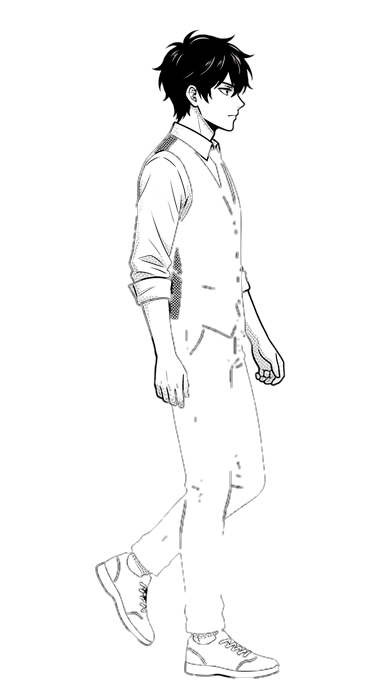
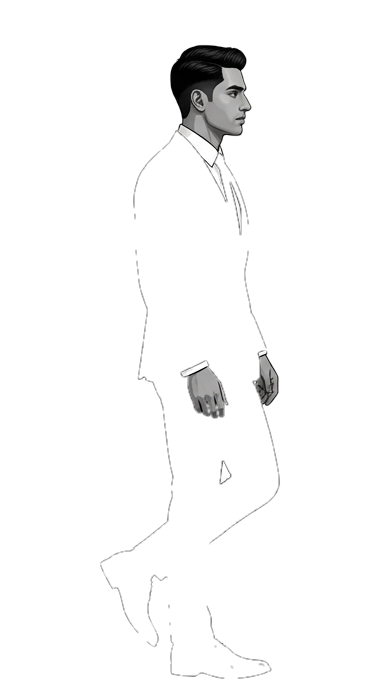
refactor: remove anime styling and transitions, upgrade to realistic professional character

diff --git a/src/App.tsx b/src/App.tsx
@@ -19,14 +19,10 @@ import { Footer } from './components/Footer';
 import { ProjectModal } from './components/ProjectModal';
 import { ImageLightbox } from './components/ImageLightbox';
 import { QuickCustomizeModal } from './components/QuickCustomizeModal';
-import { AnimeFightTransition } from './components/AnimeFightTransition';
 import { AUDIO_TRACKS } from './data/audioTracks';
 
 const STORAGE_KEY_PERSONAL = 'salim_portfolio_personal_v2';
 const STORAGE_KEY_SEMESTERS = 'salim_portfolio_semesters_v2';
-
-// Sections allowed to trigger the Anime Fight Scene transition (Home, About, Contact only)
-const FIGHTING_TRANSITION_SECTIONS = new Set(['home', 'about', 'contact']);
 
 export function App() {
   // Personal & Semester State (supports live browser customization + localStorage persistence)
@@ -70,11 +66,7 @@ export function App() {
   } | null>(null);
   const [customizeOpen, setCustomizeOpen] = useState<boolean>(false);
 
-  // 🎬 Full-Screen 3-Second Anime Fight Scene Transition
-  const [transitionTarget, setTransitionTarget] = useState<string | null>(null);
-  const [isTransitioning, setIsTransitioning] = useState<boolean>(false);
-
-  // Background Audio Player (3 user-selected anime/chill tracks with loop, pause, and track switching)
+  // Background Audio Player (3 chill tracks with loop, pause, and track switching)
   const [isPlayingMusic, setIsPlayingMusic] = useState<boolean>(false);
   const [currentTrackIndex, setCurrentTrackIndex] = useState<number>(0);
   const audioRef = useRef<HTMLAudioElement | null>(null);
@@ -209,50 +201,16 @@ export function App() {
     }
   };
 
-  // Navigation: Full-Screen Anime Fight Scene Transition ONLY for Home, About, and Contact
+  // Navigation: Direct smooth scrolling to target sections
   const handleNavigate = useCallback(
     (targetId: string) => {
-      // Prevent repeated clicks from overlapping or interrupting the animation
-      if (isTransitioning) return;
-
       const el = document.getElementById(targetId);
-
-      // If user enabled reducedMotion or target is NOT in ['home', 'about', 'contact'], scroll directly and smoothly
-      if (reducedMotion || !FIGHTING_TRANSITION_SECTIONS.has(targetId)) {
-        if (el) {
-          el.scrollIntoView({ behavior: reducedMotion ? 'auto' : 'smooth' });
-        }
-        return;
+      if (el) {
+        el.scrollIntoView({ behavior: reducedMotion ? 'auto' : 'smooth' });
       }
-
-      // If already at target section (e.g. clicking Home while already at the top), smooth scroll without replaying video
-      if (activeSection === targetId && targetId === 'home' && window.scrollY < 120) {
-        if (el) {
-          el.scrollIntoView({ behavior: 'smooth' });
-        }
-        return;
-      }
-
-      // Duck background Lo-Fi music during the intense battle sound effects
-      if (isPlayingMusic && audioRef.current) {
-        audioRef.current.volume = 0.08;
-      }
-
-      setTransitionTarget(targetId);
-      setIsTransitioning(true);
     },
-    [isTransitioning, reducedMotion, isPlayingMusic, activeSection]
+    [reducedMotion]
   );
-
-  const handleTransitionComplete = useCallback(() => {
-    setIsTransitioning(false);
-    setTransitionTarget(null);
-
-    // Restore background Lo-Fi music volume
-    if (audioRef.current) {
-      audioRef.current.volume = 0.65;
-    }
-  }, []);
 
   // Global internal link interceptor: captures all <a href="#section"> clicks across the entire site
   useEffect(() => {
@@ -274,7 +232,6 @@ export function App() {
   }, [handleNavigate]);
 
   const scrollToTop = () => {
-    if (isTransitioning) return;
     handleNavigate('home');
   };
 
@@ -422,13 +379,6 @@ export function App() {
         onUpdatePersonal={handleUpdatePersonal}
         onUpdateSemesterSgpa={handleUpdateSemesterSgpa}
         onResetDefaults={handleResetDefaults}
-      />
-
-      {/* 🎬 3-Second Full-Screen Anime Fight Scene Transition Overlay */}
-      <AnimeFightTransition
-        targetSection={transitionTarget}
-        isActive={isTransitioning}
-        onComplete={handleTransitionComplete}
       />
     </div>
   );

diff --git a/src/components/AboutSection.tsx b/src/components/AboutSection.tsx
@@ -24,7 +24,6 @@ interface AboutSectionProps {
 
 export const AboutSection: React.FC<AboutSectionProps> = ({ personal, aboutJournal }) => {
   const [activeTab, setActiveTab] = useState<'story' | 'goals' | 'career'>('story');
-  const [showRealPhoto, setShowRealPhoto] = useState<boolean>(true);
   const introVideoRef = useRef<HTMLVideoElement | null>(null);
   const [isVideoMuted, setIsVideoMuted] = useState<boolean>(true);
   const [isVideoPlaying, setIsVideoPlaying] = useState<boolean>(true);
@@ -72,30 +71,18 @@ export const AboutSection: React.FC<AboutSectionProps> = ({ personal, aboutJourn
       <div className="grid grid-cols-1 lg:grid-cols-12 gap-8 items-start">
         {/* Left Column: Real Portrait / Anime Avatar Toggle & Quick Profile Card (5 cols) */}
         <div className="lg:col-span-5 anime-glass-card rounded-3xl p-6 relative overflow-hidden">
-          {/* Portrait Mode Switcher (Real Portrait vs Anime Avatar) */}
+          {/* Executive Portrait Card */}
           <div className="flex items-center justify-between mb-3">
             <span className="text-xs font-bold uppercase tracking-wider text-indigo-700">
-              {showRealPhoto ? 'Real Portrait' : 'Anime Persona'}
+              Executive Profile
             </span>
-            <button
-              type="button"
-              onClick={() => setShowRealPhoto((prev) => !prev)}
-              className="inline-flex items-center gap-1.5 px-3 py-1 rounded-full text-xs font-semibold bg-indigo-50 hover:bg-indigo-100 text-indigo-700 border border-indigo-200 transition-colors cursor-pointer"
-            >
-              <Camera className="w-3.5 h-3.5" />
-              <span>{showRealPhoto ? 'Switch to Anime Art' : 'View Real Photo'}</span>
-            </button>
           </div>
 
           <div className="relative py-2 flex flex-col items-center">
             <div className="relative rounded-full overflow-hidden border-4 border-white shadow-xl aspect-square w-60 sm:w-64 bg-white">
               <img
-                src={showRealPhoto ? personal.realPhotoImage : personal.avatarImage}
-                alt={
-                  showRealPhoto
-                    ? 'Salim Ansari — Personal Photograph'
-                    : 'Salim Ansari — Original Anime Developer Portrait'
-                }
+                src={personal.realPhotoImage}
+                alt="Salim Ansari — AI Engineer & Developer"
                 loading="lazy"
                 draggable={false}
                 className="w-full h-full object-cover rounded-full transition-all duration-500"

diff --git a/src/data/audioTracks.ts b/src/data/audioTracks.ts
@@ -18,11 +18,11 @@ export const AUDIO_TRACKS: AudioTrack[] = [
   {
     id: 1,
     title: 'Track 1',
-    subtitle: 'Anime Sunset Lofi',
+    subtitle: 'Cyber Sunset Lofi',
     duration: '03:12',
     src: '/assets/audio/track-1.mp3',
-    characterImage: '/assets/character/chibi_sunset_pose.png',
-    characterName: 'Sunset Boy',
+    characterImage: '/assets/character/pro_walk_1.png',
+    characterName: 'Cyber Sunset',
     themeColor: '#f97316',
     themeIcon: '☀',
     accentClass: 'text-amber-700 bg-amber-50 border-amber-200 hover:bg-amber-100',
@@ -33,13 +33,13 @@ export const AUDIO_TRACKS: AudioTrack[] = [
   {
     id: 2,
     title: 'Track 2',
-    subtitle: 'Peaceful Sakura Breeze',
+    subtitle: 'Cyber Midnight Flow',
     duration: '04:28',
     src: '/assets/audio/track-2.mp3',
-    characterImage: '/assets/character/chibi_sakura_pose.png',
-    characterName: 'Sakura Boy',
+    characterImage: '/assets/character/pro_walk_1.png',
+    characterName: 'Midnight Flow',
     themeColor: '#ec4899',
-    themeIcon: '🌸',
+    themeIcon: '⚡',
     accentClass: 'text-pink-700 bg-pink-50 border-pink-200 hover:bg-pink-100',
     gradientClass: 'from-[#fff1f5] via-[#fce7f3] to-[#f3e8ff]',
     noteColor: '#ec4899',
@@ -48,13 +48,13 @@ export const AUDIO_TRACKS: AudioTrack[] = [
   {
     id: 3,
     title: 'Track 3',
-    subtitle: 'Chill Coding Melody',
+    subtitle: 'Deep Tech Melody',
     duration: '03:56',
     src: '/assets/audio/track-3.mp3',
-    characterImage: '/assets/character/chibi_coding_pose.png',
-    characterName: 'Coding Boy',
+    characterImage: '/assets/character/pro_walk_1.png',
+    characterName: 'Deep Tech',
     themeColor: '#3b82f6',
-    themeIcon: '🐱',
+    themeIcon: '🎧',
     accentClass: 'text-blue-700 bg-blue-50 border-blue-200 hover:bg-blue-100',
     gradientClass: 'from-[#eff6ff] via-[#dbeafe] to-[#e0e7ff]',
     noteColor: '#3b82f6',

diff --git a/index.html b/index.html
@@ -4,7 +4,7 @@
     <meta charset="UTF-8" />
     <link rel="icon" type="image/svg+xml" href="/favicon.svg" />
     <meta name="viewport" content="width=device-width, initial-scale=1.0" />
-    <meta name="theme-color" content="#e8effe" />
+    <meta name="theme-color" content="#020813" />
     <title>Salim Ansari | Computer Science Engineering (AI/ML) Portfolio</title>
     <meta
       name="description"
@@ -20,10 +20,10 @@
       content="Building thoughtful software, exploring intelligent technologies, and turning ideas into practical projects."
     />
     <meta property="og:type" content="website" />
-    <meta property="og:image" content="/assets/anime/hero-scenery.jpg" />
+    <meta property="og:image" content="/assets/hero-cyber-ditto-2k.jpg" />
 
-    <!-- Preload LCP Hero Scenery Image -->
-    <link rel="preload" as="image" href="/assets/anime/hero-scenery.jpg" fetchpriority="high" />
+    <!-- Preload LCP Hero Image -->
+    <link rel="preload" as="image" href="/assets/hero-cyber-ditto-2k.jpg" fetchpriority="high" />
 
     <!-- Google Fonts -->
     <link rel="preconnect" href="https://fonts.googleapis.com" />
@@ -33,7 +33,7 @@
       rel="stylesheet"
     />
   </head>
-  <body class="bg-[#f3f6ff] text-slate-800 antialiased selection:bg-lavender-200 selection:text-indigo-950 overflow-x-clip">
+  <body class="bg-[#020813] text-slate-100 antialiased selection:bg-cyan-500/30 selection:text-cyan-200 overflow-x-clip">
     <div id="root"></div>
     <script type="module" src="/src/main.tsx"></script>
   </body>

diff --git a/src/components/ProjectsSection.tsx b/src/components/ProjectsSection.tsx
@@ -65,7 +65,7 @@ export const ProjectsSection: React.FC<ProjectsSectionProps> = ({
         })),
         {
           url: flagshipProject.image,
-          label: 'Anime Concept Art',
+          label: 'Architecture Overview',
         },
       ]
     : [];

diff --git a/src/components/ProjectModal.tsx b/src/components/ProjectModal.tsx
@@ -49,7 +49,7 @@ export const ProjectModal: React.FC<ProjectModalProps> = ({
     })),
     {
       url: project.image,
-      label: 'Anime Concept Art',
+      label: 'Architecture Overview',
     },
   ];
 

diff --git a/README.md b/README.md
@@ -1,18 +1,17 @@
-# Salim Ansari — Anime-Inspired Personal Portfolio Website 🌸🏔
+# Salim Ansari — Personal AI Portfolio Website ⚡💼
 
-A responsive, anime-inspired developer portfolio website crafted for **Salim Ansari** (*Third-Year B.Tech Computer Science Engineering student specializing in Artificial Intelligence & Machine Learning at Symbiosis Institute of Technology, Nagpur*).
+A high-performance, modern developer portfolio website crafted for **Salim Ansari** (*Third-Year B.Tech Computer Science Engineering student specializing in Artificial Intelligence & Machine Learning at Symbiosis Institute of Technology, Nagpur*).
 
 ---
 
 ## ✨ Key Features
 
-1. **Signature Tiny Walking Anime Character (`src/components/TopWalkingBanner.tsx`)**
-   - Original articulated SVG chibi character representing Salim (casual hoodie, black backpack, expressive blinking eyes, and multi-limb walking cycle).
-   - Continuously walks along a panoramic sky track featuring cherry blossoms, a red Torii gate, Mt. Fuji, and the *"Small Steps, Big Dreams"* motto.
-   - Smoothly reverses direction at path bounds, persists across section navigation without restarting, waves/jumps with section-aware speech bubbles on hover/click, and respects `prefers-reduced-motion`.
+1. **Walking AI Engineer Character Runway (`src/components/TopWalkingBanner.tsx`)**
+   - High-contrast black & white AI engineer character in sleek executive attire with 4-phase human walk cycle sprite animation.
+   - Smoothly traverses the top cybernetic runway, syncs tempo with music playback, and pauses with interactive greetings.
 
-2. **Breathtaking Hero & Bento Dashboard (`src/components/HeroAndBentoSection.tsx`)**
-   - Matches the reference UI layout: layered anime sky scenery, *"Ideas / Code / Impact"* sky note, gradient serif typography, **Explore My Work** & **Let's Connect** pill CTAs, 3-column bento overview (**About Me**, **Education**, **Technical Skills**), and **Featured Projects** strip.
+2. **Executive Cyber Bento Dashboard (`src/components/HeroAndBentoSection.tsx`)**
+   - Sleek cybernetic dark executive theme, vector typography, **Explore My Work** & **Let's Connect** CTAs, 3-column bento overview (**About Me**, **Education**, **Technical Skills**), and **Featured Projects** strip.
 
 3. **Full Portfolio Sections**
    - **About Me & Career Interests (`#about`)**: Interactive Developer Journal with tabs for *My Story*, *Learning Goals*, and *Career & Internship Interests*, plus a decorative Study Club note.
